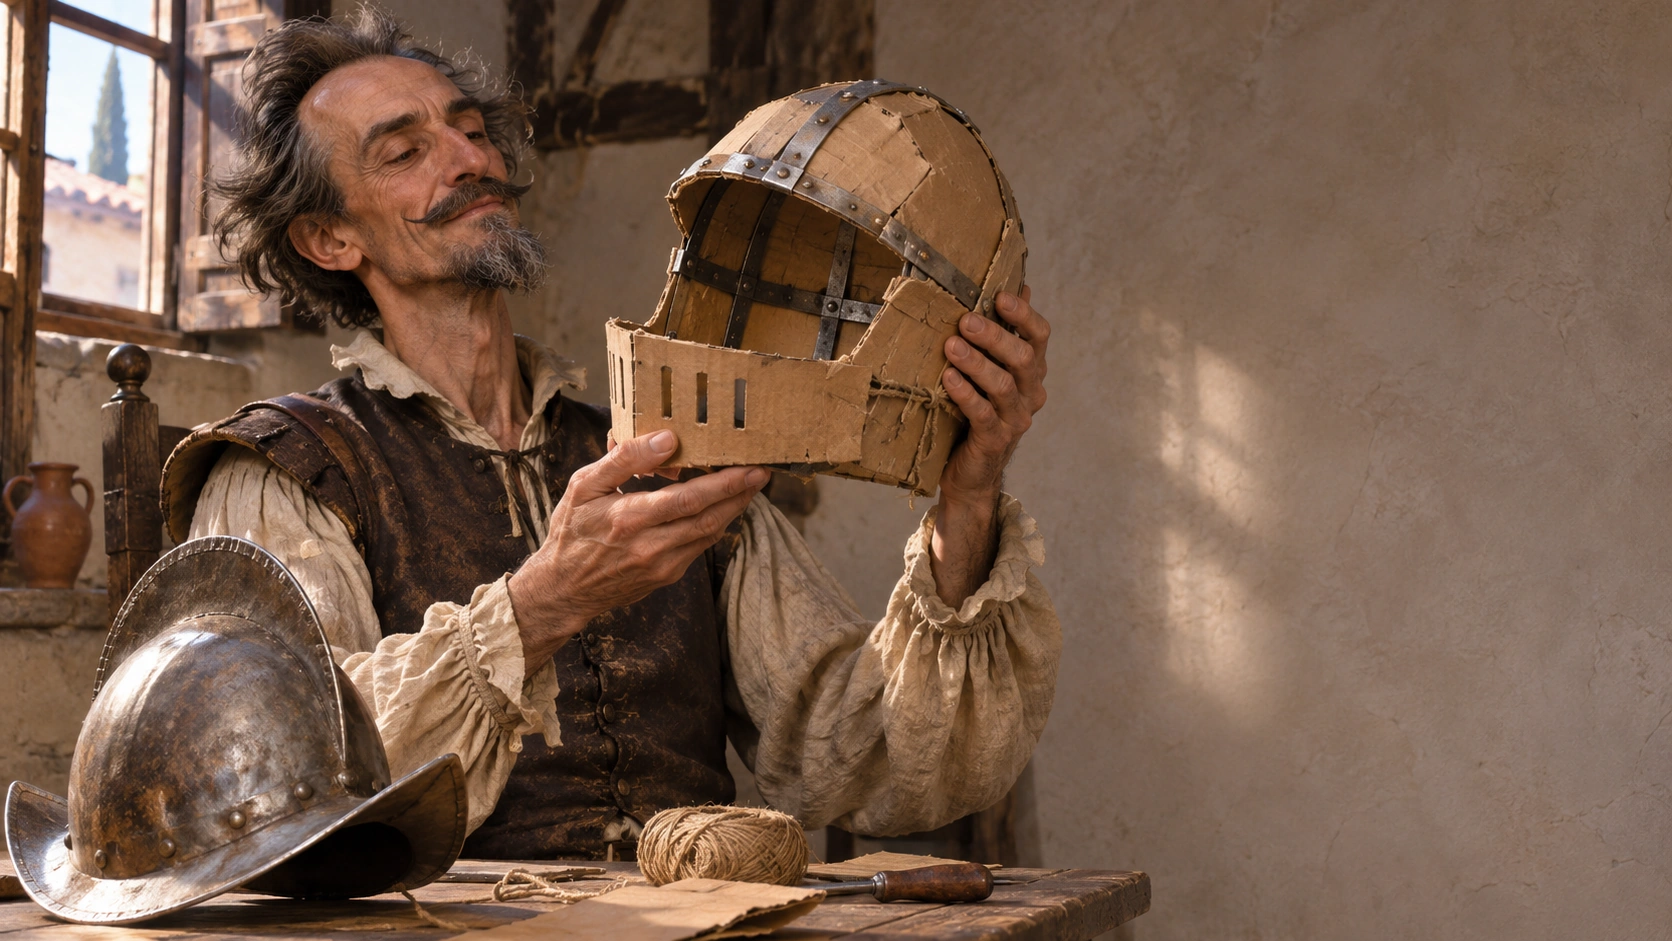
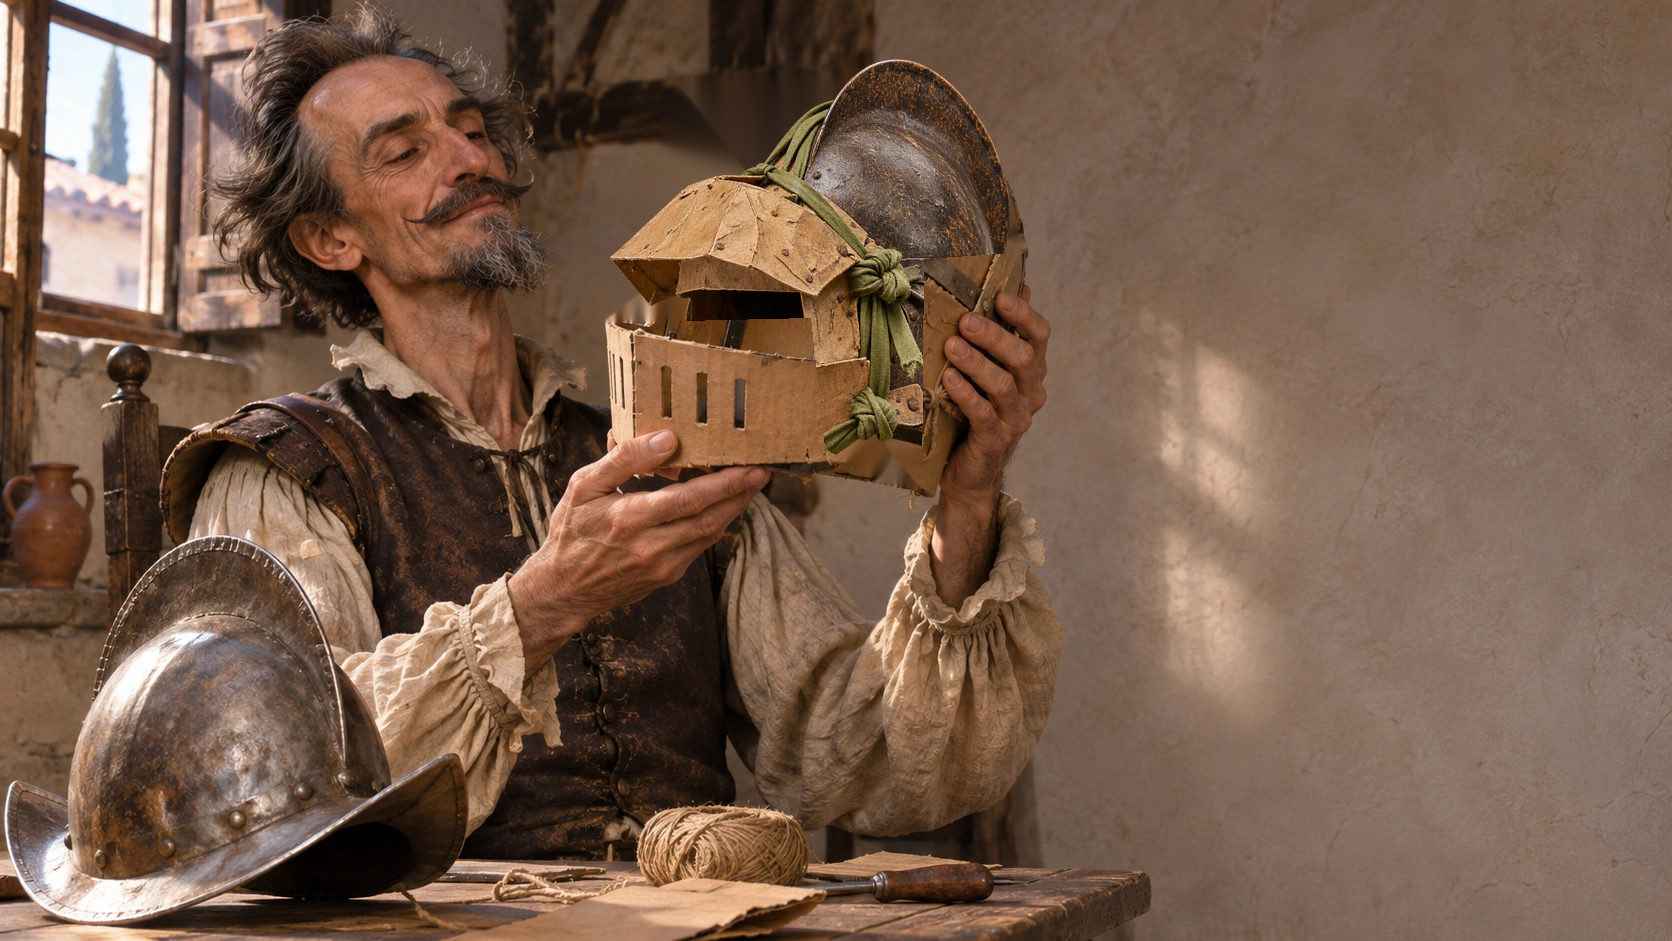
DC-42: sustituir solo casco y celada en 10 imágenes de capítulos I–II; actualizar hashes y auditoría

Changed region(s): [[0.3732, 0.0616, 0.622, 0.5239]]

diff --git a/docs/AUDITORIA_CELADA_P1_C01_C02_2026-11-16.md b/docs/AUDITORIA_CELADA_P1_C01_C02_2026-11-16.md
@@ -30,20 +30,20 @@ Se enumeran **exactamente 56 recursos catalogados** (27 del I y 29 del II). **29
 | P1.C01 | `p1_c01_h11_i02_nombre_dulcinea_story` | M / aprobada | NO APLICA | `assets/scenes/part_1/chapter_01/p1_c01_h11_i02_nombre_dulcinea_story.webp` |
 | P1.C01 | `p1_c01_r01_lectura_pre` | M / aprobada | NO APLICA | `assets/scenes/part_1/chapter_01/p1_c01_r01_lectura_pre.webp` |
 | P1.C01 | `p1_c01_r03_armas_morrion_pre` | V / aprobada | MORRIÓN PREVIO | `assets/scenes/part_1/chapter_01/p1_c01_r03_armas_morrion_pre.webp` |
-| P1.C01 | `p1_c01_r03_celada_reforzada_post` | V / aprobada | **RETOQUE PENDIENTE** | `assets/scenes/part_1/chapter_01/p1_c01_r03_celada_reforzada_post.webp` |
+| P1.C01 | `p1_c01_r03_celada_reforzada_post` | V / aprobada | **CORREGIDA DC-42** | `assets/scenes/part_1/chapter_01/p1_c01_r03_celada_reforzada_post.webp` |
 | P1.C01 | `p1_c01_r04_rocin_pre` | M / aprobada | NO APLICA | `assets/scenes/part_1/chapter_01/p1_c01_r04_rocin_pre.webp` |
 | P1.C01 | `p1_c01_r05_dama_pensamientos_pre` | V / aprobada | NO APLICA | `assets/scenes/part_1/chapter_01/p1_c01_r05_dama_pensamientos_pre.webp` |
 | P1.C01 | `pa_02` | M / aprobada | NO APLICA | `assets/scenes/part_1/chapter_01/pa_02_hidalgo_presentacion.webp` |
 | P1.C02 | `p1_c02_celada_reparacion_pre` | V / borrador | PREVIA | `assets/scenes/part_1/chapter_02/p1_c02_celada_reparacion_pre.webp` |
-| P1.C02 | `p1_c02_h01_i01_salida_corral_story` | V / aprobada | **RETOQUE PENDIENTE** | `assets/scenes/part_1/chapter_02/p1_c02_h01_i01_salida_corral_story.webp` |
-| P1.C02 | `p1_c02_h02_i01_duda_investidura_story` | V / aprobada | **RETOQUE PENDIENTE** | `assets/scenes/part_1/chapter_02/p1_c02_h02_i01_duda_investidura_story.webp` |
-| P1.C02 | `p1_c02_h02_i02_resolucion_armarse_story` | V / aprobada | **RETOQUE PENDIENTE** | `assets/scenes/part_1/chapter_02/p1_c02_h02_i02_resolucion_armarse_story.webp` |
-| P1.C02 | `p1_c02_h03_camino_monologos_story` | V / aprobada | **RETOQUE PENDIENTE** | `assets/scenes/part_1/chapter_02/p1_c02_h03_camino_monologos_story.webp` |
-| P1.C02 | `p1_c02_h03_i01_cronista_hazanas_story` | V / aprobada | **RETOQUE PENDIENTE** | `assets/scenes/part_1/chapter_02/p1_c02_h03_i01_cronista_hazanas_story.webp` |
-| P1.C02 | `p1_c02_h03_i03_dulcinea_sol_story` | V / aprobada | **RETOQUE PENDIENTE** | `assets/scenes/part_1/chapter_02/p1_c02_h03_i03_dulcinea_sol_story.webp` |
-| P1.C02 | `p1_c02_h04_i01_cansancio_hambre_story` | V / aprobada | **RETOQUE PENDIENTE** | `assets/scenes/part_1/chapter_02/p1_c02_h04_i01_cansancio_hambre_story.webp` |
-| P1.C02 | `p1_c02_h05_espera_trompeta_story` | V / aprobada | **RETOQUE PENDIENTE** | `assets/scenes/part_1/chapter_02/p1_c02_h05_espera_trompeta_story.webp` |
-| P1.C02 | `p1_c02_h05_i02_cuerno_porquero_story` | V / aprobada | **RETOQUE PENDIENTE** | `assets/scenes/part_1/chapter_02/p1_c02_h05_i02_cuerno_porquero_story.webp` |
+| P1.C02 | `p1_c02_h01_i01_salida_corral_story` | V / aprobada | **CORREGIDA DC-42** | `assets/scenes/part_1/chapter_02/p1_c02_h01_i01_salida_corral_story.webp` |
+| P1.C02 | `p1_c02_h02_i01_duda_investidura_story` | V / aprobada | **CORREGIDA DC-42** | `assets/scenes/part_1/chapter_02/p1_c02_h02_i01_duda_investidura_story.webp` |
+| P1.C02 | `p1_c02_h02_i02_resolucion_armarse_story` | V / aprobada | **CORREGIDA DC-42** | `assets/scenes/part_1/chapter_02/p1_c02_h02_i02_resolucion_armarse_story.webp` |
+| P1.C02 | `p1_c02_h03_camino_monologos_story` | V / aprobada | **CORREGIDA DC-42** | `assets/scenes/part_1/chapter_02/p1_c02_h03_camino_monologos_story.webp` |
+| P1.C02 | `p1_c02_h03_i01_cronista_hazanas_story` | V / aprobada | **CORREGIDA DC-42** | `assets/scenes/part_1/chapter_02/p1_c02_h03_i01_cronista_hazanas_story.webp` |
+| P1.C02 | `p1_c02_h03_i03_dulcinea_sol_story` | V / aprobada | **CORREGIDA DC-42** | `assets/scenes/part_1/chapter_02/p1_c02_h03_i03_dulcinea_sol_story.webp` |
+| P1.C02 | `p1_c02_h04_i01_cansancio_hambre_story` | V / aprobada | **CORREGIDA DC-42** | `assets/scenes/part_1/chapter_02/p1_c02_h04_i01_cansancio_hambre_story.webp` |
+| P1.C02 | `p1_c02_h05_espera_trompeta_story` | V / aprobada | **CORREGIDA DC-42** | `assets/scenes/part_1/chapter_02/p1_c02_h05_espera_trompeta_story.webp` |
+| P1.C02 | `p1_c02_h05_i02_cuerno_porquero_story` | V / aprobada | **CORREGIDA DC-42** | `assets/scenes/part_1/chapter_02/p1_c02_h05_i02_cuerno_porquero_story.webp` |
 | P1.C02 | `p1_c02_h06_i01_visera_alzada_temor_story` | V / aprobada | **RETOQUE PENDIENTE** | `assets/scenes/part_1/chapter_02/p1_c02_h06_i01_visera_alzada_temor_story.webp` |
 | P1.C02 | `p1_c02_h06_i02_discurso_doncellas_story` | V / aprobada | **RETOQUE PENDIENTE** | `assets/scenes/part_1/chapter_02/p1_c02_h06_i02_discurso_doncellas_story.webp` |
 | P1.C02 | `p1_c02_h06_visera_risas_story` | V / aprobada | **RETOQUE PENDIENTE** | `assets/scenes/part_1/chapter_02/p1_c02_h06_visera_risas_story.webp` |
@@ -76,7 +76,7 @@ Se enumeran **exactamente 56 recursos catalogados** (27 del I y 29 del II). **29
 - `p1_c02_celada_reparacion_pre`: Borrador de reparación ubicado en carpeta I.2, pero acto anterior a salida: no imponer configuración final.
 
 ## Estado de edición (obligatorio distinguir de la auditoría)
-**Sustituciones efectivamente incorporadas:** **0/29**. **Binarios originales preservados:** 56/56. **Activaciones en aplicación:** 0. El inventario identifica candidatos; solo ediciones reales, máscaras de preservación y commit verificable permitirán avanzar esas cifras.
+**Sustituciones efectivamente incorporadas:** **10/29**. **Binarios originales preservados:** 56/56. **Rutas originales actualizadas:** 10; la activación en interfaz depende del consumidor existente, sin alta automática de nuevos elementos. El inventario identifica candidatos; solo ediciones reales, máscaras de preservación y commit verificable permitirán avanzar esas cifras.
 
 ## Protocolo por imagen
 1. Abrir original del repositorio, verificar cronología, rostro, rostro oculto/visible, fase, interacciones y determinación de casco/celada.
@@ -84,3 +84,7 @@ Se enumeran **exactamente 56 recursos catalogados** (27 del I y 29 del II). **29
 3. Cambiar geometría/material/cintas conforme a la referencia única. Conservar el resto de imagen byte a byte tras decodificar; no hacer reescalado general ni nuevo tratamiento de color.
 4. Exportar sin recortar ni deformar; comparar píxeles originales y editados fuera de máscara con igualdad exacta; pasar control visual de zona editada.
 5. Actualizar ruta autorizada, hash y manifiesto, consumidores de Historia/Aventura/Museo; realizar commit y verificar integración en `main`. No marcar como corregida una imagen sin esas evidencias.
+
+
+## Actualización DC-42 — 16-11-2026
+Se han aplicado a sus rutas originales 10 correcciones localizadas (primer bloque del inventario). Las comparativas y los 10 WebP derivados se conservan en la rama `dc42/celada-primeras-10-20261116`; no se ha alterado el resto de cada fotograma (cero píxeles exteriores modificados). Quedan 19 candidatos por corregir. Los SHA-256 definitivos constan en `assets/scenes/manifest.json` y en el registro JSON.
